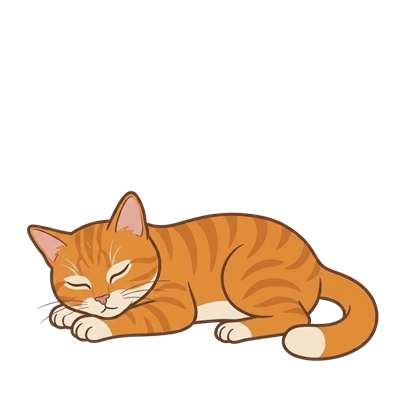
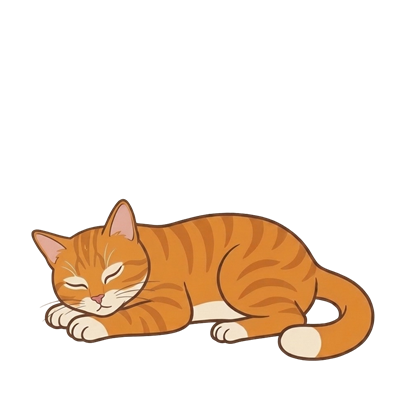
fix(pet): refine sleeping master head proportion to match peers
The initial sleeping master had a ~20% wider head (108-113 px vs
89-93 px on standing/lying/drag). Replacing master-sleeping with the
head-refined render brings its cheek width back to 96-98 px (344x163
bbox) while preserving identical torso geometry, tail-loop cutout, and
(200, 360) anchor alignment across all four masters.

Changed region(s): [[0.06, 0.48, 0.96, 0.9]]

diff --git a/docs/pet-video-prompts.md b/docs/pet-video-prompts.md
@@ -14,7 +14,7 @@
 | 四母姿总览原图 | `docs/images/pet/v2-masters/raw/master-4poses-sheet-raw.png` | `1200×1200` `2×2` 归一化合图（基于「静止站姿单图 → 趴姿/拎起 → 趴姿推熟睡」链式派生，统一 `#F4EFE9` 纯底） | 4 张母姿统一标尺与花纹核对总览 |
 | 母姿 B：趴姿 | `docs/images/pet/v2-masters/master-lying.png` | `400×400` 8-bit RGBA · `anchor: { x: 200, y: 360 }` · 统一标尺 `0.700@600`（`354×217`） | `lying-idle` / `blink` / `react` 底图；`stretch` 首帧、`wake` 末帧、`sleep-in` 首帧 |
 | 母姿 A：站姿 | `docs/images/pet/v2-masters/master-standing.png` | `400×400` 8-bit RGBA · `anchor: { x: 200, y: 360 }` · 统一标尺 `0.700@600`（`333×244`） | 静止四足站立唯一锚点（前后双腿各自并拢、前腿横纹清晰一致）；`stretch` 末帧、`walk` 首帧、`jump` 起止基准 |
-| 母姿 C：熟睡 | `docs/images/pet/v2-masters/master-sleeping.png` | `400×400` 8-bit RGBA · `anchor: { x: 200, y: 360 }` · 统一标尺 `0.700@600`（`352×171`） | 由趴姿直接低头闭眼派生（躯干与绕侧尾 100% 咬合）；`sleep` 底图、`sleep-in` 末帧、`wake` 首帧 |
+| 母姿 C：熟睡 | `docs/images/pet/v2-masters/master-sleeping.png` | `400×400` 8-bit RGBA · `anchor: { x: 200, y: 360 }` · 统一标尺 `0.700@600`（`344×163`） | 由趴姿直接低头闭眼派生（躯干与绕侧尾 100% 咬合）；`sleep` 底图、`sleep-in` 末帧、`wake` 首帧 |
 | 独立态：拎起 | `docs/images/pet/v2-masters/master-drag.png` | `400×400` 8-bit RGBA · `anchor: { x: 200, y: 360 }` · 统一标尺 `0.700@600`（`332×252`） | `drag` 循环底图 |
 | 单态切片原图 | `docs/images/pet/v2-masters/raw/master-{lying,standing,sleeping,drag}-raw.png` | 去背归一化至 `#F4EFE9` 纯底的 `600×600` 单姿原图（与 `400×400` 严格 `1.5×` 对应，`anchor: 300,540`） | L1/L2/L3 模型输入原图（导出统一乘 `2/3 ≈ 0.667`） |
 | 审片图 | `docs/images/pet/v2-masters/onion-skin-masters.png`、`preview-light-dark-200dip.png` | `tools/verify-pet-pack.ps1` 渲染输出 | 四母姿洋葱皮重叠校验 + 浅/深色 200 DIP 边缘校验 |
